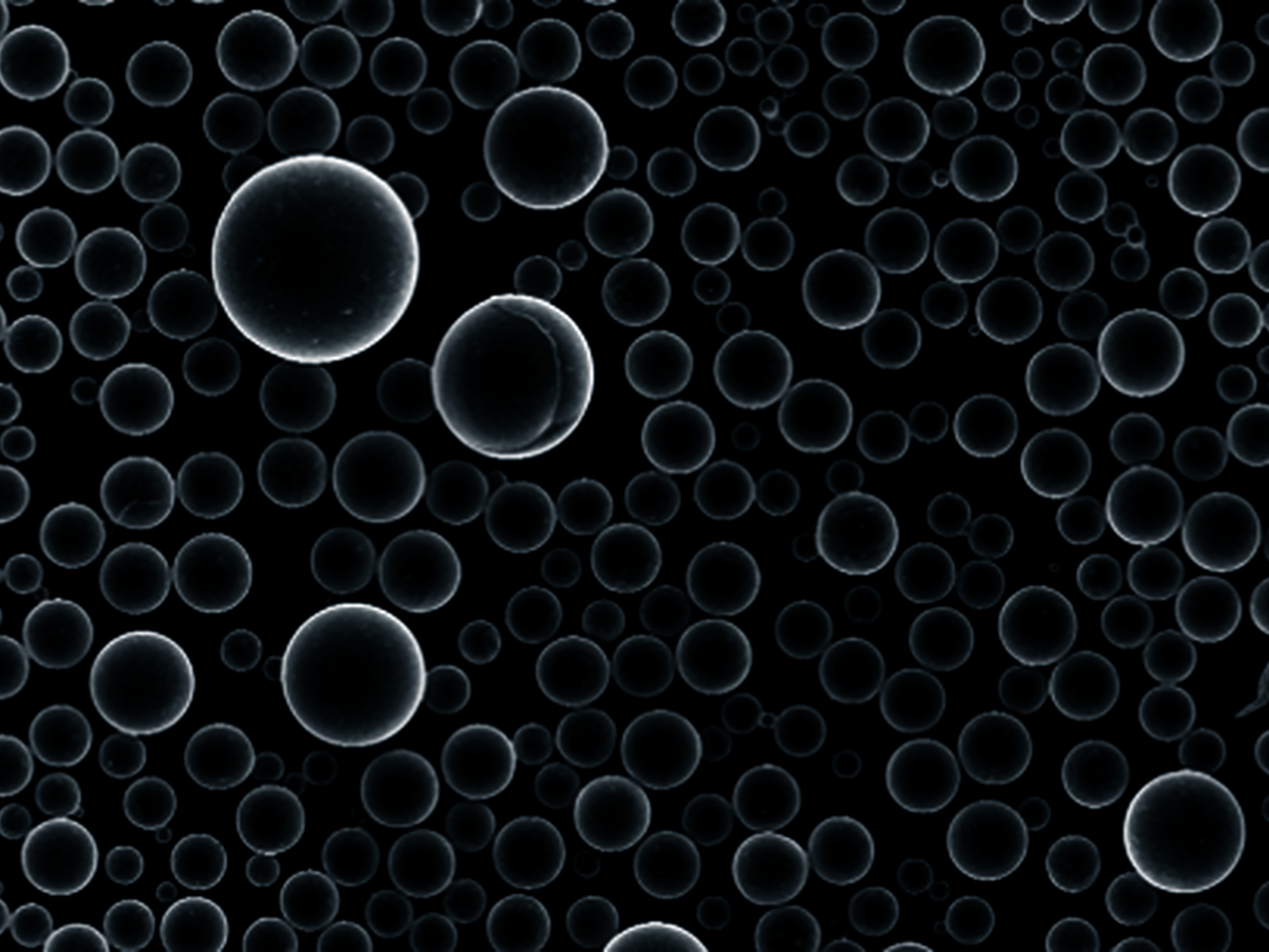
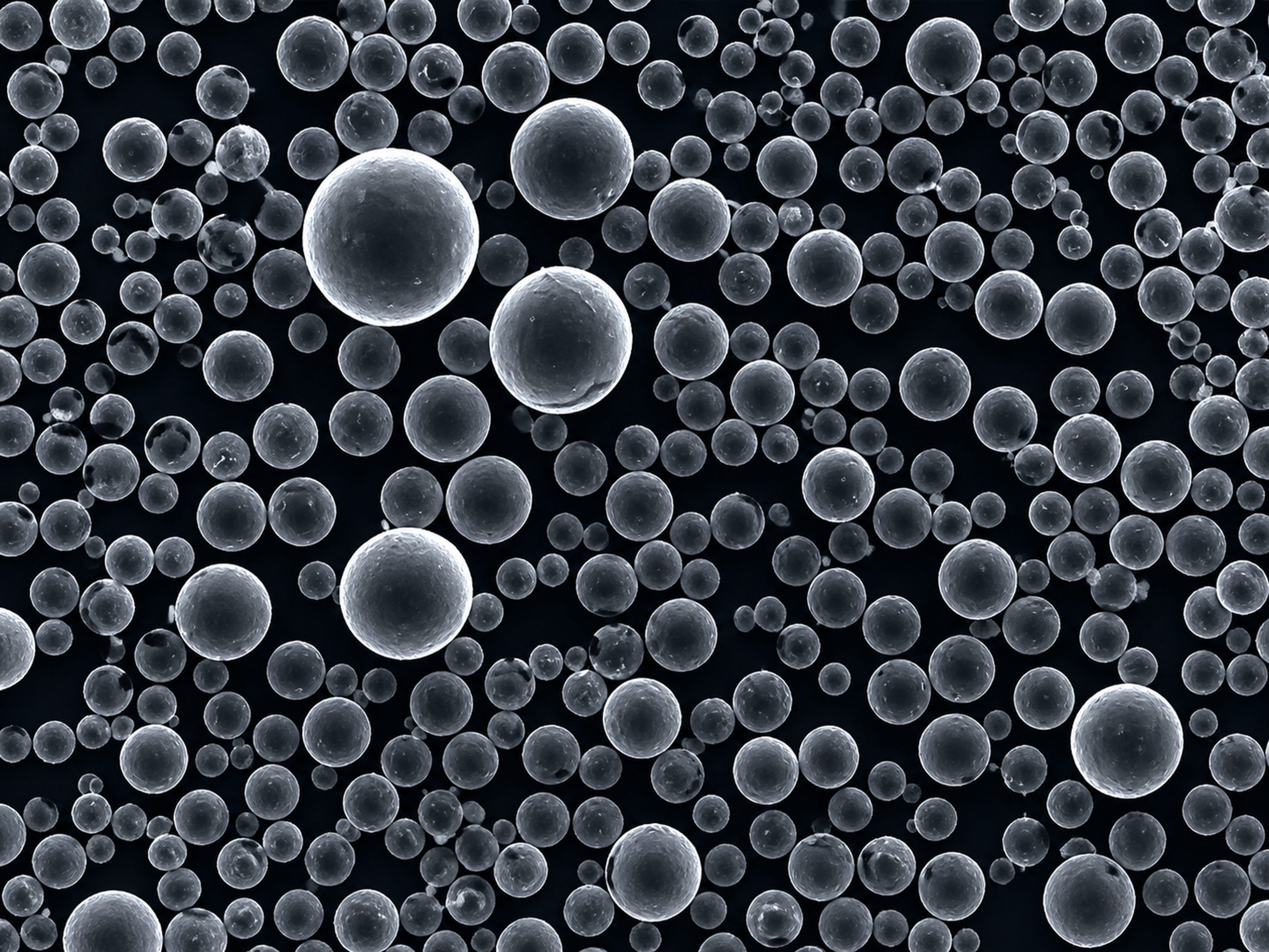
feat(assets): replace powder proof imagery with 4K microscopy set
Tungsten, Tantalum and Ti-6Al-4V get new 3840x2880 captures. Ni-Shell and
WC-Core switches from the 606x406 letterboxed PNG to a matching 4:3 proof
image, so the card fills its frame like the rest of the slider.

diff --git a/app/landing/content.ts b/app/landing/content.ts
@@ -46,11 +46,10 @@ export const powderEvidence = [
   {
     label: "Ni-Shell and WC-Core",
     image: {
-      src: "/assets/core-shell-microscopy.png",
+      src: "/assets/core-shell-proof-4k.jpg",
       alt: "Core-shell powder microscopy image",
-      width: 606,
-      height: 406,
-      fit: "contain",
+      width: 3840,
+      height: 2880,
     },
   },
   {
